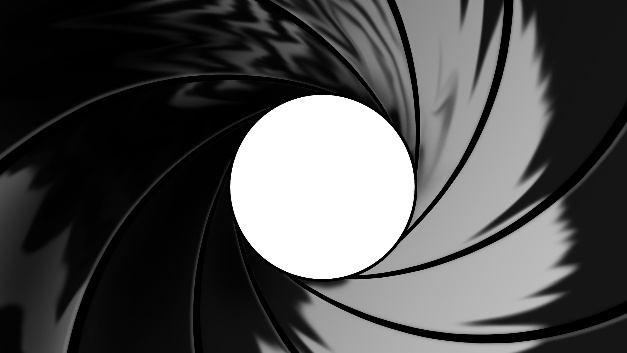
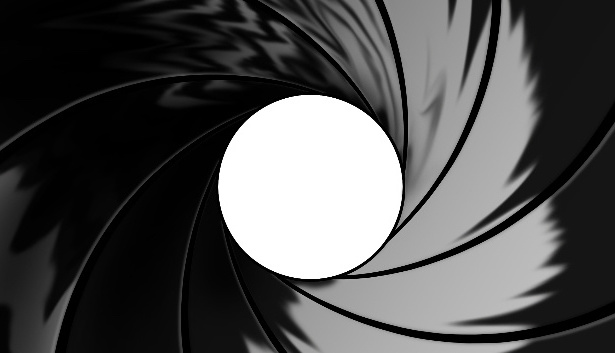
resizeing images

diff --git a/index.html b/index.html
@@ -29,17 +29,12 @@
       <div id="option2El" class="optionsEl"> </div>
       <div id="option3El" class="optionsEl"> </div>
       <div id="option4El" class="optionsEl"> </div>
+
+      <div id="imgEl"> </div>
+      <div id="startEl"> <button>Start</button> </div>
       
     </div>
-
-    <div class="row text-center">
-    <div class="col-md-4"></div>
-      <div class="col-md-4">
-        <div id="imgEl"> </div>
-        <div id="startEl"> <button>Start</button> </div>
-      </div>
-      <div class="col-md-4"></div>
-    </div>
+    
 
     <script type="text/javascript" src="https://code.jquery.com/jquery-2.2.0.min.js"></script>
     <script type="text/javascript" src="assets/javascript/app.js"></script>

diff --git a/assets/javascript/app.js b/assets/javascript/app.js
@@ -111,7 +111,7 @@ $(document).ready(function() {
    $("#option3El").html("<P> </p>");
    $("#option4El").html("<P> </p>");
 
-   $("#imgEl").html('<img class="img-responsive text-center" src=' + imagesArr[arrIndex] + '>');
+   $("#imgEl").html('<img src=' + imagesArr[arrIndex] + '>');
 
    arrIndex++;
   };

diff --git a/assets/css/style.css b/assets/css/style.css
@@ -24,6 +24,7 @@ h1 {
 	font-size: 42px;
 }
 button {
+	margin: 20px 0 40px 0;
 	color: red;
 	font-size: 30px;
 	font-weight: bolder;
